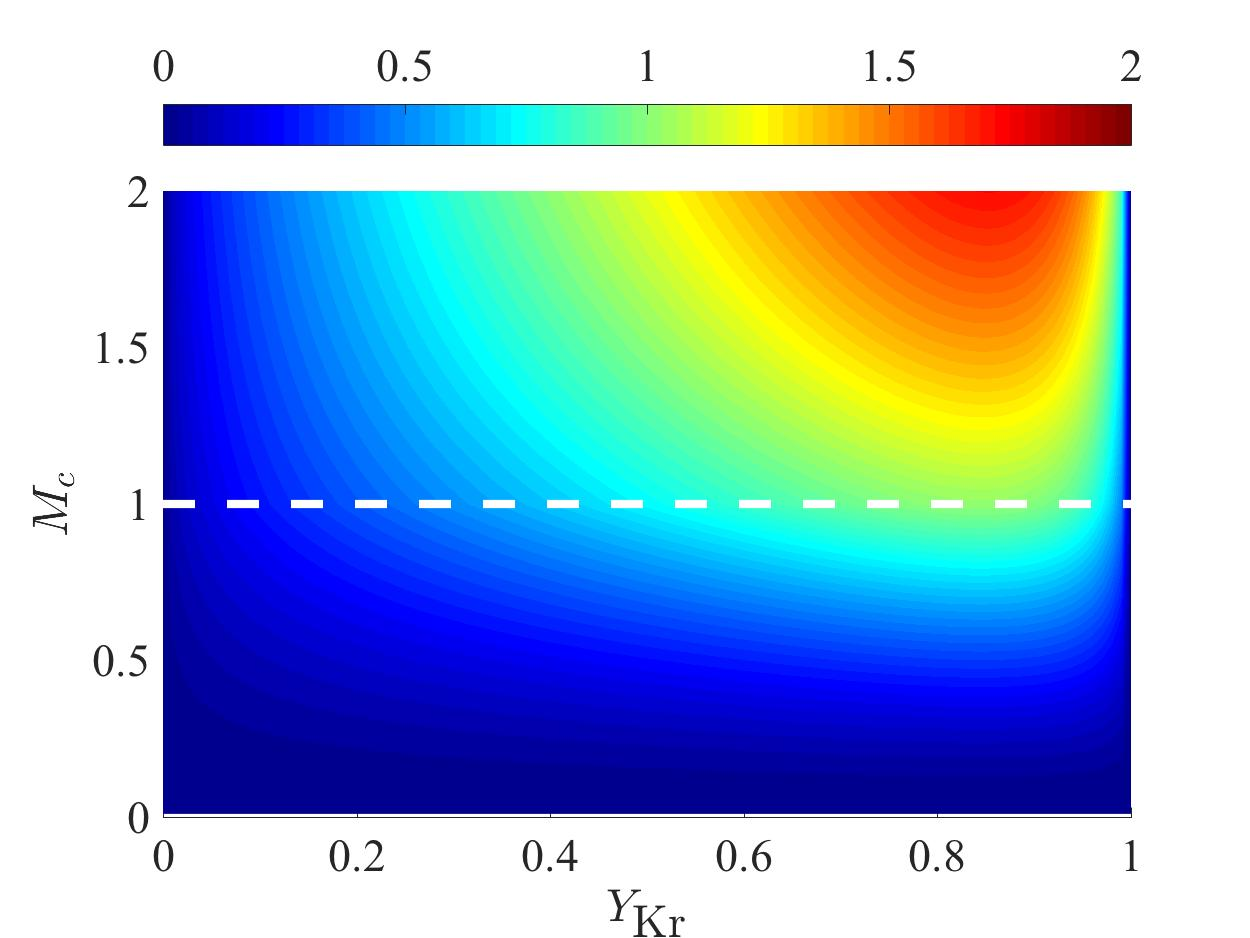
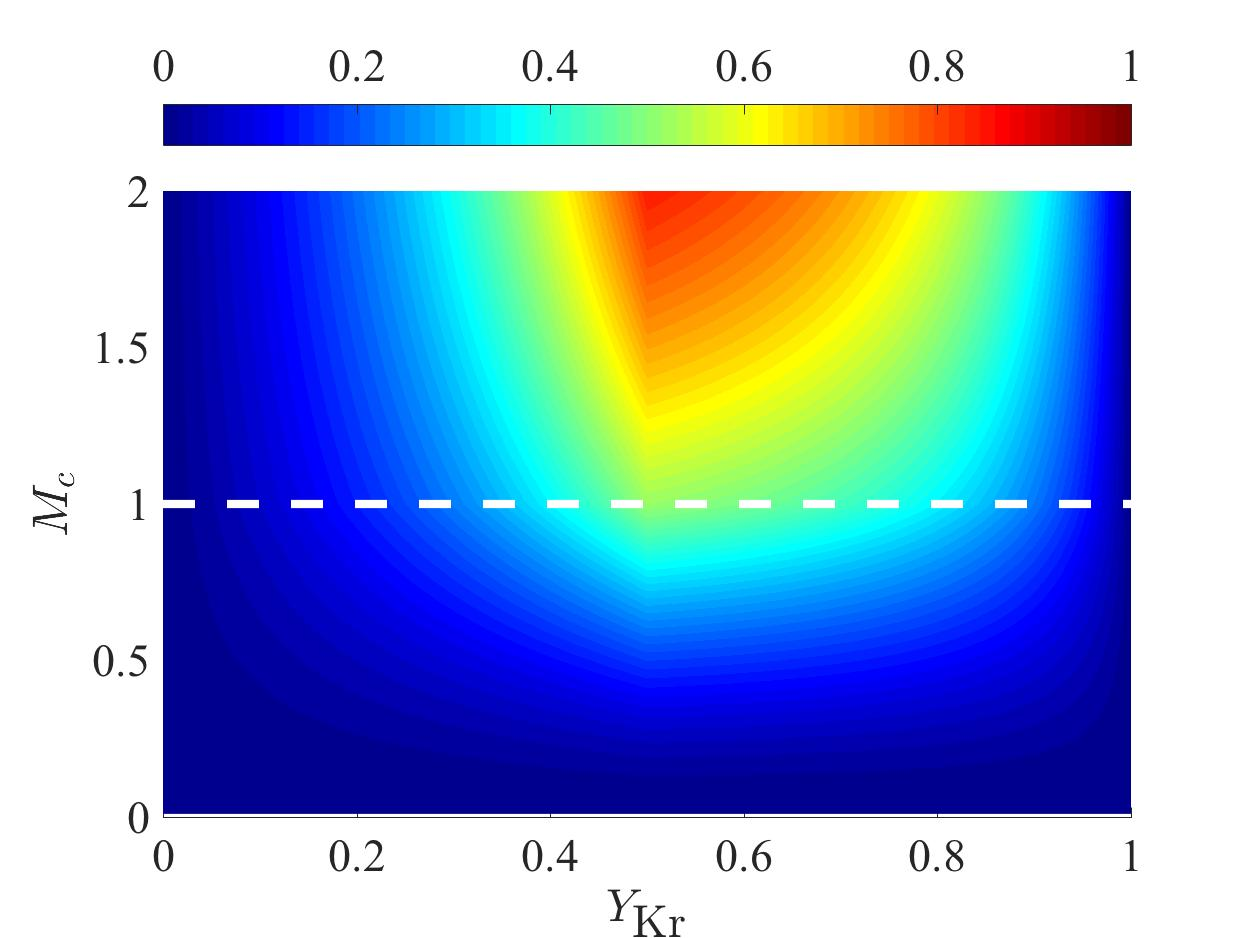
Added inert shock response figures and iso-molecular weight experiment

diff --git a/inertTransferFunctions/plotInertShockTransferFunctions.m b/inertTransferFunctions/plotInertShockTransferFunctions.m
@@ -1,0 +1,121 @@
+function[] = plotInertShockTransferFunctions()
+	close all;
+
+	fs = 22;
+	lw = 4;
+
+
+	addpath('../data');
+	addpath('../core');
+
+	[Nsp, species, a, A, MW] = speciesPropsInert();
+	Nmach = 301;
+	Npts = 101;
+	Z = zeros(Npts, Nmach);
+	Pratio = zeros(Npts, Nmach);
+	Zratio = zeros(Npts, Nmach);
+	Sratio = zeros(Npts, Nmach);
+
+	for inert = 1:3
+		gamma = 1.4;
+		M_a = 0.0;
+		T_a = 300.0;
+		p_a = 2.0E6;
+%					Ar		CO		CO2		He		Kr		N2		Ne		O2		H2O	
+		MW 		=  [39.948 28.0101 44.0095  4.0026  83.798  28.0134	20.1791 31.9988 18.0153]; 
+		Yair 	=  [0.0000 	0.0000 	0.0000 	0.0000 	0.0000 	0.7670 	0.0000 	0.2330	0.0000];
+
+		if (inert == 1)%Argon
+			Yfuel= [1.0000 	0.0000 	0.0000 	0.0000 	0.0000 	0.0000 	0.0000 	0.0000 	0.0000];
+		elseif (inert == 2) %Helium
+			Yfuel= [0.0000 	0.0000 	0.0000 	1.0000 	0.0000 	0.0000 	0.0000 	0.0000 	0.0000];
+		elseif (inert == 3) %Krypton
+			Yfuel= [0.0000 	0.0000 	0.0000 	0.0000 	1.0000 	0.0000 	0.0000 	0.0000 	0.0000];
+		elseif (inert == 4) %Neon
+			Yfuel= [0.0000 	0.0000 	0.0000 	0.0000 	0.0000 	0.0000 	1.0000 	0.0000 	0.0000];
+		end
+
+
+		for i = 1:Npts
+			Y = (i-1)*0.01;
+			Ylft = (1-(Y-0.01))	*Yair + (Y-0.01)*Yfuel;
+			Yctr = (1-Y)		*Yair + Y		*Yfuel;
+			Yrgt = (1-(Y+0.01))	*Yair + (Y+0.01)*Yfuel;
+			Zlft = (Y-0.01);
+			Zctr = Y;
+			Zrgt = (Y+0.01);
+			MWbar = 0;
+			for ll = 1:Nsp
+				MWbar = MWbar + Yctr(ll)/MW(ll);
+			end
+			MWbar = 1/MWbar;
+			Rbar = 8.31446E7/MWbar;
+			MYMW(i) = MWbar;
+			MYR(i) = Rbar;
+			[cpfixed]	= returnSpeciesProperties(T_a, p_a, Yctr, a, A, MW);
+			MYCP(i) = cpfixed;
+			[psi_a, ~, ~, ~, ~, gamma] = returnInertPsi(T_a, p_a, Ylft, Yctr, Yrgt, Zlft, Zctr, Zrgt, a, A, MW, Rbar, cpfixed);
+%			[psi_a, ~, ~, ~, ~, ~] = returnInertPsi(T_a, p_a, Ylft, Yctr, Yrgt, Zlft, Zctr, Zrgt, a, A, MW, Rbar);
+%			gamma
+			GAMMA(i) = gamma;
+			gm1 = gamma - 1;
+			gp1 = gamma + 1;
+			for j = 1:Nmach
+				M_b = 1 + (j-1)*0.01;
+				Z(i,j) = Y;
+				MB(i,j) = M_b;
+
+				T_b = (1 + (gamma-1)/2*M_b*M_b)^(-1)*T_a;
+				p_b = (1 + (gamma-1)/2*M_b*M_b)^(-gamma/(gamma-1))*p_a;
+				[psi_b, ~, ~, ~, G(i,j)] = returnInertPsi(T_b, p_b, Ylft, Yctr, Yrgt, Zlft, Zctr, Zrgt, a, A, MW, Rbar,cpfixed);
+
+			
+				M_c = (gm1*M_b^2 + 2)/(2*gamma*M_b^2 - gm1);
+				T_c = T_b*(2*gamma*M_b^2 - gm1)*(gm1*M_b^2 + 2)/(gp1^2*M_b^2);
+				p_c = gp1*M_b^2/(gm1*M_b^2 + 2);
+%				MC(i,j) = M_C
+				[psi_c, ~, ~, ~, ~] = returnInertPsi(T_c, p_c, Ylft, Yctr, Yrgt, Zlft, Zctr, Zrgt, a, A, MW, Rbar, cpfixed);
+
+				PSI(i,j) = psi_b;
+%				if (M_b < 1)%subcritical
+%					Pratio(i,j) = (2*(1 + M_a)*M_b*(2 + (gamma-1.0)*M_b*M_b))/((1+M_b)*(M_a + M_b)*(2 + (gamma-1)*M_a*M_b));
+%					Sratio(i,j) = ((M_b - M_a)*M_b)/((1+M_b)*(2 + (gamma-1)*M_a*M_b));
+%					Zratio(i,j) = ((gamma-1)*(psi_b - psi_a)*(2 + (gamma-1)*M_b*M_b)*M_a*M_b)             /((gamma-1)*(1 + M_b)*(M_a + M_b)*(2 + (gamma-1)*M_a*M_b)) + ...
+%	                           (M_b*(2*(psi_a - psi_b) + (gamma-1)*(psi_a*M_b*M_b - psi_b*M_a*M_a)))/((gamma-1)*(1 + M_b)*(M_a + M_b)*(2 + (gamma-1)*M_a*M_b));
+%				else%supercritical
+%				Pratio(i,j) = (2 + (gamma-1)*M_b)/(2 + (gamma-1)*M_a);
+%				Sratio(i,j) = (M_b - M_a)/(2*(2 + (gamma-1)*M_a));
+%				Zratio(i,j) = ((2 + (gamma-1)*M_b)/(2 + (gamma-1)*M_a)*psi_a - psi_b)/(2*(gamma-1));
+%				end%criticality logic
+
+				Pbminus = -1/(2*gm1)*(psi_b + (gm1*M_b - 2)/(gm1*M_a + 2)*psi_a);
+				Pbplus 	= 1/(2*gm1)*(-psi_b + (2 + gm1*M_b)/(2+gm1*M_a)*psi_a);
+	
+				Pcplus = (1 + 2*M_c^2*M_b + M_b^2)/(1+2*M_b^2*M_c + M_b^2)*Pbplus + (1-2*M_c^2*M_b + M_b^2)/(1 + 2*M_b^2*M_c + M_b^2)*Pbminus;
+
+				Zratio(i,j) = Pcplus;
+
+			end%for j = 1:Nmach
+		end%for i = 1:Npts
+
+		figure();
+		surface(Z,MB,log10(abs(Zratio)),'edgecolor','none');
+		shading interp;
+		gg = colorbar('northoutside');
+		set(gg, 'FontSize', fs, 'FontName', 'Times');
+		ylabel('$M_{b-\epsilon}$','Interpreter','LaTeX', 'FontSize', fs, 'FontName', 'Times');
+		set(gca,'FontSize', fs, 'FontName', 'Times');
+		colormap('jet');
+		caxis([-1,1]);
+		if (inert == 1)
+			xlabel('$Y_{\textrm{Ar}}$','Interpreter','LaTeX', 'FontSize', fs, 'FontName', 'Times');
+			print -djpeg ShockResultsAr.jpg
+		elseif (inert == 2)
+			xlabel('$Y_{\textrm{He}}$','Interpreter','LaTeX', 'FontSize', fs, 'FontName', 'Times');
+			print -djpeg ShockResultsHe.jpg
+		elseif (inert == 3)
+			xlabel('$Y_{\textrm{Kr}}$','Interpreter','LaTeX', 'FontSize', fs, 'FontName', 'Times');
+			print -djpeg ShockResultsKr.jpg
+		end
+	end%inert
+end%plotInertTransferFunction()

diff --git a/molecularWeightExperiment/plotMolecularWeightExperiment.m b/molecularWeightExperiment/plotMolecularWeightExperiment.m
@@ -1,0 +1,104 @@
+function[] = plotMolecularWeightExperiment()
+	close all;
+
+	fs = 22;
+	lw = 4;
+
+	addpath('../core');
+	addpath('../data');
+	[Nsp, species, a, A, MW] = speciesPropsMW();
+	Nmach = 201;
+	Npts = 101;
+
+	M_a = 0.0;
+	T_a = 300.0;
+	p_a = 2.0E6;
+	MW = 		[2*14.00670 39.94800 40.06500];
+	YN2 	= [1 0 0];
+
+	for pass = 1:2
+		if (pass == 1)
+			Ytest 	=  [1.0000 	1.0000 0.0000];
+		elseif (pass == 2)
+			Ytest 	=  [1.0000 	0.0000 1.0000];
+		else
+			error(0);
+		end
+
+		Z 		= zeros(Npts, Nmach);
+		Pratio 	= zeros(Npts, Nmach);
+		Zratio 	= zeros(Npts, Nmach);
+		Sratio 	= zeros(Npts, Nmach);
+
+		for i = 1:Npts
+			Y = (i-1)*0.01;
+			Ylft = (1-(Y-0.01))	*Ytest + (Y-0.01)*YN2;
+			Yctr = (1-Y)		*Ytest + Y		*YN2;
+			Yrgt = (1-(Y+0.01))	*Ytest + (Y+0.01)*YN2;
+			Zlft = (Y-0.01);
+			Zctr = Y;
+			Zrgt = (Y+0.01);
+			MWbar = 0;
+			for ll = 1:Nsp
+				MWbar = MWbar + Yctr(ll)/MW(ll);
+			end
+			MWbar = 1/MWbar;
+			Rbar = 8.31446E7/MWbar;
+			MYMW(i) = MWbar;
+			MYR(i) = Rbar;
+			[cpfixed]	= returnSpeciesProperties(T_a, p_a, Yctr, a, A, MW);
+			MYCP(i) = cpfixed;
+			[psi_a, ~, ~, ~, ~, gamma] = returnInertPsi(T_a, p_a, Ylft, Yctr, Yrgt, Zlft, Zctr, Zrgt, a, A, MW, Rbar, cpfixed);
+			GAMMA(i) = gamma;
+%			Zdp = sqrt(Y*(1-Y));
+			Zdp = 1;
+			for j = 1:Nmach
+				M_b = (j-1)*0.01;
+				Z(i,j) = Y;
+				MB(i,j) = M_b;
+
+				T_b = (1 + (gamma-1)/2*M_b*M_b)^(-1)*T_a;
+				p_b = (1 + (gamma-1)/2*M_b*M_b)^(-gamma/(gamma-1))*p_a;
+				[psi_b, ~, ~, ~, G(i,j)] = returnInertPsi(T_b, p_b, Ylft, Yctr, Yrgt, Zlft, Zctr, Zrgt, a, A, MW, Rbar,cpfixed);
+				PSI(i,j) = psi_b;
+				if (M_b < 1)%subcritical
+					Pratio(i,j) = (2*(1 + M_a)*M_b*(2 + (gamma-1.0)*M_b*M_b))/((1+M_b)*(M_a + M_b)*(2 + (gamma-1)*M_a*M_b));
+					Sratio(i,j) = ((M_b - M_a)*M_b)/((1+M_b)*(2 + (gamma-1)*M_a*M_b));
+					Zratio(i,j) = ((gamma-1)*(psi_b - psi_a)*(2 + (gamma-1)*M_b*M_b)*M_a*M_b)             /((gamma-1)*(1 + M_b)*(M_a + M_b)*(2 + (gamma-1)*M_a*M_b)) + ...
+        	                   (M_b*(2*(psi_a - psi_b) + (gamma-1)*(psi_a*M_b*M_b - psi_b*M_a*M_a)))/((gamma-1)*(1 + M_b)*(M_a + M_b)*(2 + (gamma-1)*M_a*M_b));
+					Zratio(i,j) = Zratio(i,j)*Zdp;
+				else%supercritical
+					Pratio(i,j) = (2 + (gamma-1)*M_b)/(2 + (gamma-1)*M_a);
+					Sratio(i,j) = (M_b - M_a)/(2*(2 + (gamma-1)*M_a));
+					Zratio(i,j) = ((2 + (gamma-1)*M_b)/(2 + (gamma-1)*M_a)*psi_a - psi_b)/(2*(gamma-1));
+					Zratio(i,j) = Zratio(i,j)*Zdp;
+				end%criticality logic
+			end%for j = 1:Nmach
+		end%for i = 1:Npts
+		G = G./1E7;
+	
+		Zratio(end,:) = (Zratio(end-1,:) - Zratio(end-2,:))/(Z(end-1,:) - Z(end-2,:))*(Z(end,:) - Z(end-1,:)) + Zratio(end-1,:);
+		Zratio(1,:) = (Zratio(3,:) - Zratio(2,:))/(Z(3,:) - Z(2,:))*(Z(1,:) - Z(2,:)) + Zratio(2,:);
+
+
+		figure();
+		surface(Z, MB, abs(Zratio), 'edgecolor', 'none');
+		shading interp;
+		hold on;
+		plot3([0. 1.], [1, 1], [1E6, 1E6], 'w--', 'LineWidth', lw);
+		gg = colorbar('northoutside');
+		set(gg, 'FontSize', fs, 'FontName', 'Times');
+%		xlabel('$Z \slash \left(Z + Z_{st}\right)$','Interpreter','LaTeX', 'FontSize', fs, 'FontName', 'Times');
+		xlabel('$Z$ [-]', 'Interpreter', 'LaTeX', 'FontSize', fs, 'FontName', 'Times');
+		ylabel('$M_c$','Interpreter','LaTeX', 'FontSize', fs, 'FontName', 'Times');
+		set(gca,'FontSize', fs, 'FontName', 'Times');
+		colormap('jet');
+
+		if (pass == 1)
+			print -djpeg ArgonSweep.jpg
+		elseif (pass == 2)
+			print -djpeg C3H4Sweep.jpg
+		end
+
+	end%for pass
+end%function

diff --git a/core/speciesPropsMW.m b/core/speciesPropsMW.m
@@ -1,0 +1,25 @@
+function[Nspecies, species, a, A, MW, Hover] = speciesProps()
+	global molweight;
+	Nspecies = 3;
+%	1	2	3	4	5	6	7	8   9
+ 	species = {'N2', 'Ar','X'};
+	MW 	= zeros(Nspecies,1);
+	a 	= zeros(Nspecies, 7);
+	A 	= zeros( Nspecies, 7);
+
+	MW = 		[2*14.00670;%1 - N2
+				   39.94800;%2 - Ar
+				   40.06500;];%3 - C3H4
+				
+	a(:,:) 	=  [+2.95257637E+00	+1.39690040E-03	-4.92631603E-07	+7.86010195E-11	-4.60755204E-15	-9.23948688E+02	+5.87188762E+00; %1 - N2
+				+2.50000000E+00	+0.00000000E+00	+0.00000000E+00	+0.00000000E+00	+0.00000000E+00	-7.45375000E+02	+4.37967491E+00; %2 - Ar
+				+0.63168722E+01 +0.11133728E-01	-0.39629378E-05	+0.63564238E-09	-0.37875540E-13	+0.20117495E+05	-0.10995766E+02];%3 - Allene	
+%				a1				a2				a3				a4				a5				a6				a7
+	A(:,:) 	=  [+3.53100528E+00	-1.23660988E-04	-5.02999433E-07	+2.43530612E-09	-1.40881235E-12	-1.04697628E+03	+2.96747038E+00; %6 - N2
+				+2.50000000E+00	+0.00000000E+00	+0.00000000E+00	+0.00000000E+00	+0.00000000E+00	-7.45375000E+02	+4.37967491E+00; %2 - Ar
+				+0.26130445E+01	+0.12122575E-01	+0.18539880E-04	-0.34525149E-07	+0.15335079E-10	+0.21541567E+05	+0.10226139E+02]; %3 - C3H4
+
+	Hover = [+0.00000000E+00;%1 - N2
+			 +0.00000000E+00;%2 - Ar 
+			 +0.22962267E+05];%3 - C3H4
+end

diff --git a/inertTransferFunctions/plotScaledInertResponseSurfaces.m b/inertTransferFunctions/plotScaledInertResponseSurfaces.m
@@ -52,7 +52,8 @@ function[] = plotScaledInertResponseSurfaces()
 			gamma = cpfixed/(cpfixed - Rbar);
 			[psi_a] = returnInertPsi(T0, p0, Ylft, Yctr, Yrgt, Zlft, Zctr, Zrgt, a, A, MW, Rbar, cpfixed);
 			GAMMA(i) = gamma;
-			Zdp = sqrt(Y*(1-Y));
+%			Zdp = sqrt(Y*(1-Y));
+			Zdp = 1/sqrt(2)*min(Y, (1-Y));
 			for j = 1:Nmach
 				M_b = (j-1)*0.01;
 				Z(i,j) = Y;
@@ -88,7 +89,8 @@ function[] = plotScaledInertResponseSurfaces()
 		ylabel('$M_c$','Interpreter','LaTeX', 'FontSize', fs, 'FontName', 'Times');
 		set(gca,'FontSize', fs, 'FontName', 'Times');
 		colormap('jet');
-		caxis([0,2]);
+%		caxis([0,2]);
+		caxis([0, 1]);
 
 		if (inert == 1)
 			xlabel('$Y_{\textrm{Ar}}$','Interpreter','LaTeX', 'FontSize', fs, 'FontName', 'Times');
